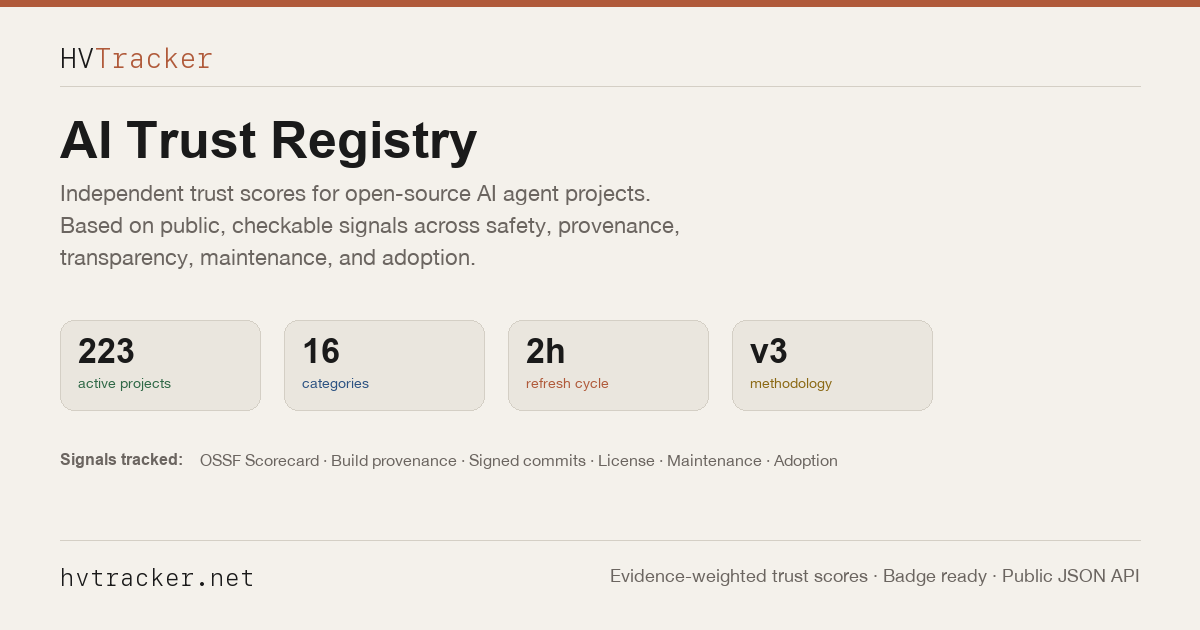
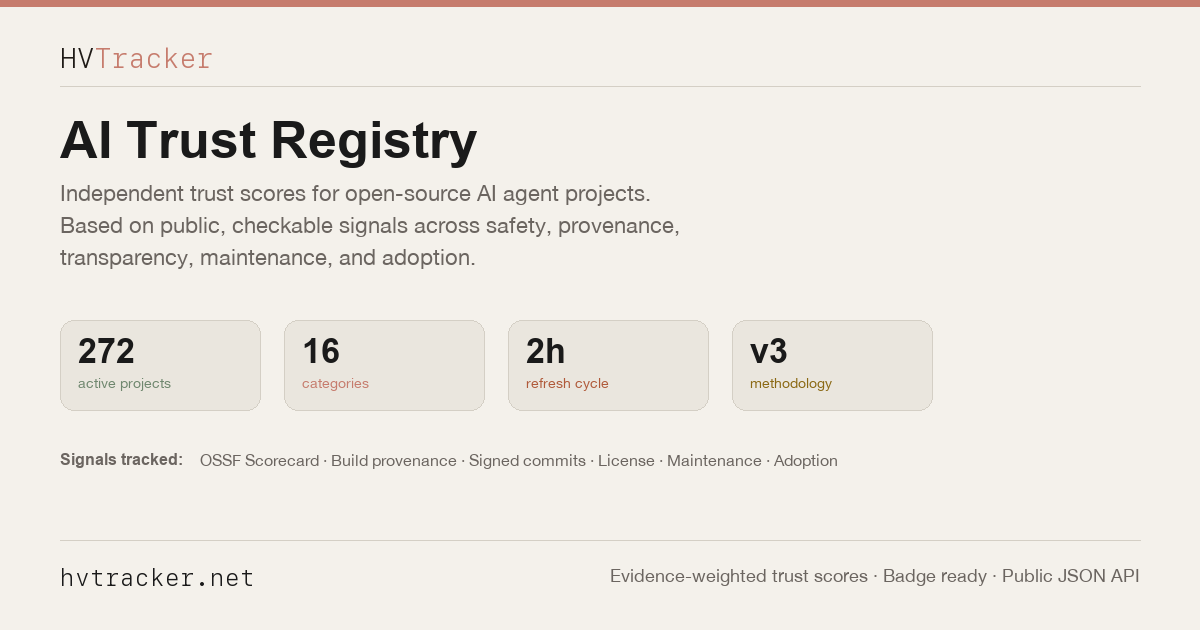
Re-skin share OG cards to match site brand (warm coral/moss, not blue)
The hero share cards (og-mcp, og-v2, og-verify) led with blue (#2c5282)
while the live site leads with the warm lobster (#c67c6d) + moss (#6f876e)
brand, so previews looked off-theme. Swap the lead accent to lobster/moss
(wordmark, top bar, NEW pill, footer URLs); keep green for trust/live dots.
Per-agent cards' blue trust bars are untouched.

diff --git a/generate_og_card.py b/generate_og_card.py
@@ -20,6 +20,15 @@ GREEN = "#2f6846"
 RED = "#9b3c3c"
 AMBER = "#8b6914"
 
+# Website brand accents (match static/site.css). The shareable hero cards
+# (site / verify / mcp) lead with these so they read warm-forward like the live
+# site instead of blue-forward. ACCENT (blue) is left untouched for the
+# per-agent cards' trust bars.
+LOBSTER = "#c67c6d"
+LOBSTER_TINT = "#f1e0db"
+MOSS = "#6f876e"
+INK = "#1f1b17"
+
 GRADE_COLORS = {
     "A": ("#e8f5e9", GREEN, GREEN),
     "B": ("#e3ecf6", ACCENT, ACCENT),
@@ -267,15 +276,15 @@ def generate_site_card(output_path: str, total: int = 196, categories: int = 15)
     draw = ImageDraw.Draw(img)
 
     # Top accent bar
-    draw.rectangle((0, 0, W, 6), fill=hex_rgb(ACCENT_WARM))
+    draw.rectangle((0, 0, W, 6), fill=hex_rgb(LOBSTER))
 
     left_x = 60
     top_y = 40
 
     # Logo
-    draw.text((left_x, top_y), "HV", font=load_font(28, bold=True, mono=True), fill=hex_rgb(TEXT))
+    draw.text((left_x, top_y), "HV", font=load_font(28, bold=True, mono=True), fill=hex_rgb(INK))
     hv_w = draw.textbbox((0, 0), "HV", font=load_font(28, bold=True, mono=True))[2]
-    draw.text((left_x + hv_w, top_y), "Tracker", font=load_font(28, mono=True), fill=hex_rgb(ACCENT_WARM))
+    draw.text((left_x + hv_w, top_y), "Tracker", font=load_font(28, mono=True), fill=hex_rgb(LOBSTER))
 
     # Separator
     draw.line((left_x, 86, W - 60, 86), fill=hex_rgb(BORDER), width=1)
@@ -301,8 +310,8 @@ def generate_site_card(output_path: str, total: int = 196, categories: int = 15)
     gap = 24
 
     stats = [
-        (str(total), "active projects", GREEN),
-        (str(categories), "categories", ACCENT),
+        (str(total), "active projects", MOSS),
+        (str(categories), "categories", LOBSTER),
         ("2h", "refresh cycle", ACCENT_WARM),
         ("v3", "methodology", AMBER),
     ]
@@ -335,13 +344,13 @@ def generate_verify_card(output_path: str):
     """Shareable OG card for the /verify front door."""
     img = Image.new("RGB", (W, H), hex_rgb(BG))
     draw = ImageDraw.Draw(img)
-    draw.rectangle((0, 0, W, 6), fill=hex_rgb(ACCENT_WARM))
+    draw.rectangle((0, 0, W, 6), fill=hex_rgb(LOBSTER))
 
     left_x = 64
-    draw.text((left_x, 44), "HV", font=load_font(20, bold=True, mono=True), fill=hex_rgb(TEXT))
+    draw.text((left_x, 44), "HV", font=load_font(20, bold=True, mono=True), fill=hex_rgb(INK))
     hv_w = draw.textbbox((0, 0), "HV", font=load_font(20, bold=True, mono=True))[2]
     tf = load_font(20, mono=True)
-    draw.text((left_x + hv_w, 44), "Tracker", font=tf, fill=hex_rgb(ACCENT_WARM))
+    draw.text((left_x + hv_w, 44), "Tracker", font=tf, fill=hex_rgb(LOBSTER))
     tw = draw.textbbox((0, 0), "Tracker", font=tf)[2]
     draw.text((left_x + hv_w + tw + 18, 46), "AI Trust Registry", font=load_font(16), fill=hex_rgb(MUTED))
 
@@ -360,7 +369,7 @@ def generate_verify_card(output_path: str):
               font=load_font(22, bold=True), fill=hex_rgb(TEXT))
 
     draw.line((left_x, 540, W - 64, 540), fill=hex_rgb(BORDER), width=1)
-    draw.text((left_x, 560), "hvtracker.net/verify", font=load_font(22, mono=True), fill=hex_rgb(ACCENT))
+    draw.text((left_x, 560), "hvtracker.net/verify", font=load_font(22, mono=True), fill=hex_rgb(LOBSTER))
     img.save(output_path, "PNG", optimize=True)
     print(f"Generated verify OG card: {output_path} ({W}x{H})")
 
@@ -369,15 +378,15 @@ def generate_mcp_card(output_path: str):
     """Shareable OG card for the MCP server launch (LinkedIn / X)."""
     img = Image.new("RGB", (W, H), hex_rgb(BG))
     draw = ImageDraw.Draw(img)
-    draw.rectangle((0, 0, W, 6), fill=hex_rgb(ACCENT_WARM))
+    draw.rectangle((0, 0, W, 6), fill=hex_rgb(LOBSTER))
 
     left_x = 64
 
     # Header
-    draw.text((left_x, 44), "HV", font=load_font(20, bold=True, mono=True), fill=hex_rgb(TEXT))
+    draw.text((left_x, 44), "HV", font=load_font(20, bold=True, mono=True), fill=hex_rgb(INK))
     hv_w = draw.textbbox((0, 0), "HV", font=load_font(20, bold=True, mono=True))[2]
     tf = load_font(20, mono=True)
-    draw.text((left_x + hv_w, 44), "Tracker", font=tf, fill=hex_rgb(ACCENT_WARM))
+    draw.text((left_x + hv_w, 44), "Tracker", font=tf, fill=hex_rgb(LOBSTER))
     tw = draw.textbbox((0, 0), "Tracker", font=tf)[2]
     draw.text((left_x + hv_w + tw + 18, 46), "AI Trust Registry", font=load_font(16), fill=hex_rgb(MUTED))
 
@@ -387,12 +396,12 @@ def generate_mcp_card(output_path: str):
     pb = draw.textbbox((0, 0), pill_text, font=pill_font)
     pill_w = (pb[2] - pb[0]) + 32
     rounded(draw, (W - 64 - pill_w, 38, W - 64, 38 + 36), 10,
-            fill=hex_rgb("#e3ecf6"), outline=hex_rgb(ACCENT))
-    draw.text((W - 64 - pill_w + 16, 47), pill_text, font=pill_font, fill=hex_rgb(ACCENT))
+            fill=hex_rgb(LOBSTER_TINT), outline=hex_rgb(LOBSTER))
+    draw.text((W - 64 - pill_w + 16, 47), pill_text, font=pill_font, fill=hex_rgb(LOBSTER))
 
     # Headline
-    draw.text((left_x, 132), "Safe Browsing", font=load_font(64, bold=True), fill=hex_rgb(TEXT))
-    draw.text((left_x, 204), "for MCP servers", font=load_font(64, bold=True), fill=hex_rgb(TEXT))
+    draw.text((left_x, 132), "Safe Browsing", font=load_font(64, bold=True), fill=hex_rgb(INK))
+    draw.text((left_x, 204), "for MCP servers", font=load_font(64, bold=True), fill=hex_rgb(INK))
 
     # Subtitle
     draw.text((left_x, 300), "HVTracker's trust registry is now an MCP server. Verify any",
@@ -408,8 +417,8 @@ def generate_mcp_card(output_path: str):
     chip_w = (ub[2] - ub[0]) + 96
     rounded(draw, (left_x, cy, left_x + chip_w, cy + 56), 12,
             fill=hex_rgb(SURFACE), outline=hex_rgb(BORDER))
-    draw.ellipse((left_x + 22, cy + 22, left_x + 34, cy + 34), fill=hex_rgb(GREEN))
-    draw.text((left_x + 50, cy + 15), url, font=chip_font, fill=hex_rgb(ACCENT))
+    draw.ellipse((left_x + 22, cy + 22, left_x + 34, cy + 34), fill=hex_rgb(MOSS))
+    draw.text((left_x + 50, cy + 15), url, font=chip_font, fill=hex_rgb(INK))
 
     # Tool pills
     ty = 470
@@ -420,12 +429,12 @@ def generate_mcp_card(output_path: str):
         tpw = (tb[2] - tb[0]) + 36
         rounded(draw, (px, ty, px + tpw, ty + 44), 22,
                 fill=hex_rgb(BG), outline=hex_rgb(BORDER))
-        draw.text((px + 18, ty + 11), tool, font=pf, fill=hex_rgb(TEXT))
+        draw.text((px + 18, ty + 11), tool, font=pf, fill=hex_rgb(INK))
         px += tpw + 16
 
     # Footer
     draw.line((left_x, 552, W - 64, 552), fill=hex_rgb(BORDER), width=1)
-    draw.text((left_x, 572), "hvtracker.net/mcp", font=load_font(22, mono=True), fill=hex_rgb(ACCENT))
+    draw.text((left_x, 572), "hvtracker.net/mcp", font=load_font(22, mono=True), fill=hex_rgb(LOBSTER))
     tag = "Streamable HTTP · no auth · open verdict"
     tgb = draw.textbbox((0, 0), tag, font=load_font(18))
     draw.text((W - 64 - (tgb[2] - tgb[0]), 574), tag, font=load_font(18), fill=hex_rgb(MUTED))
